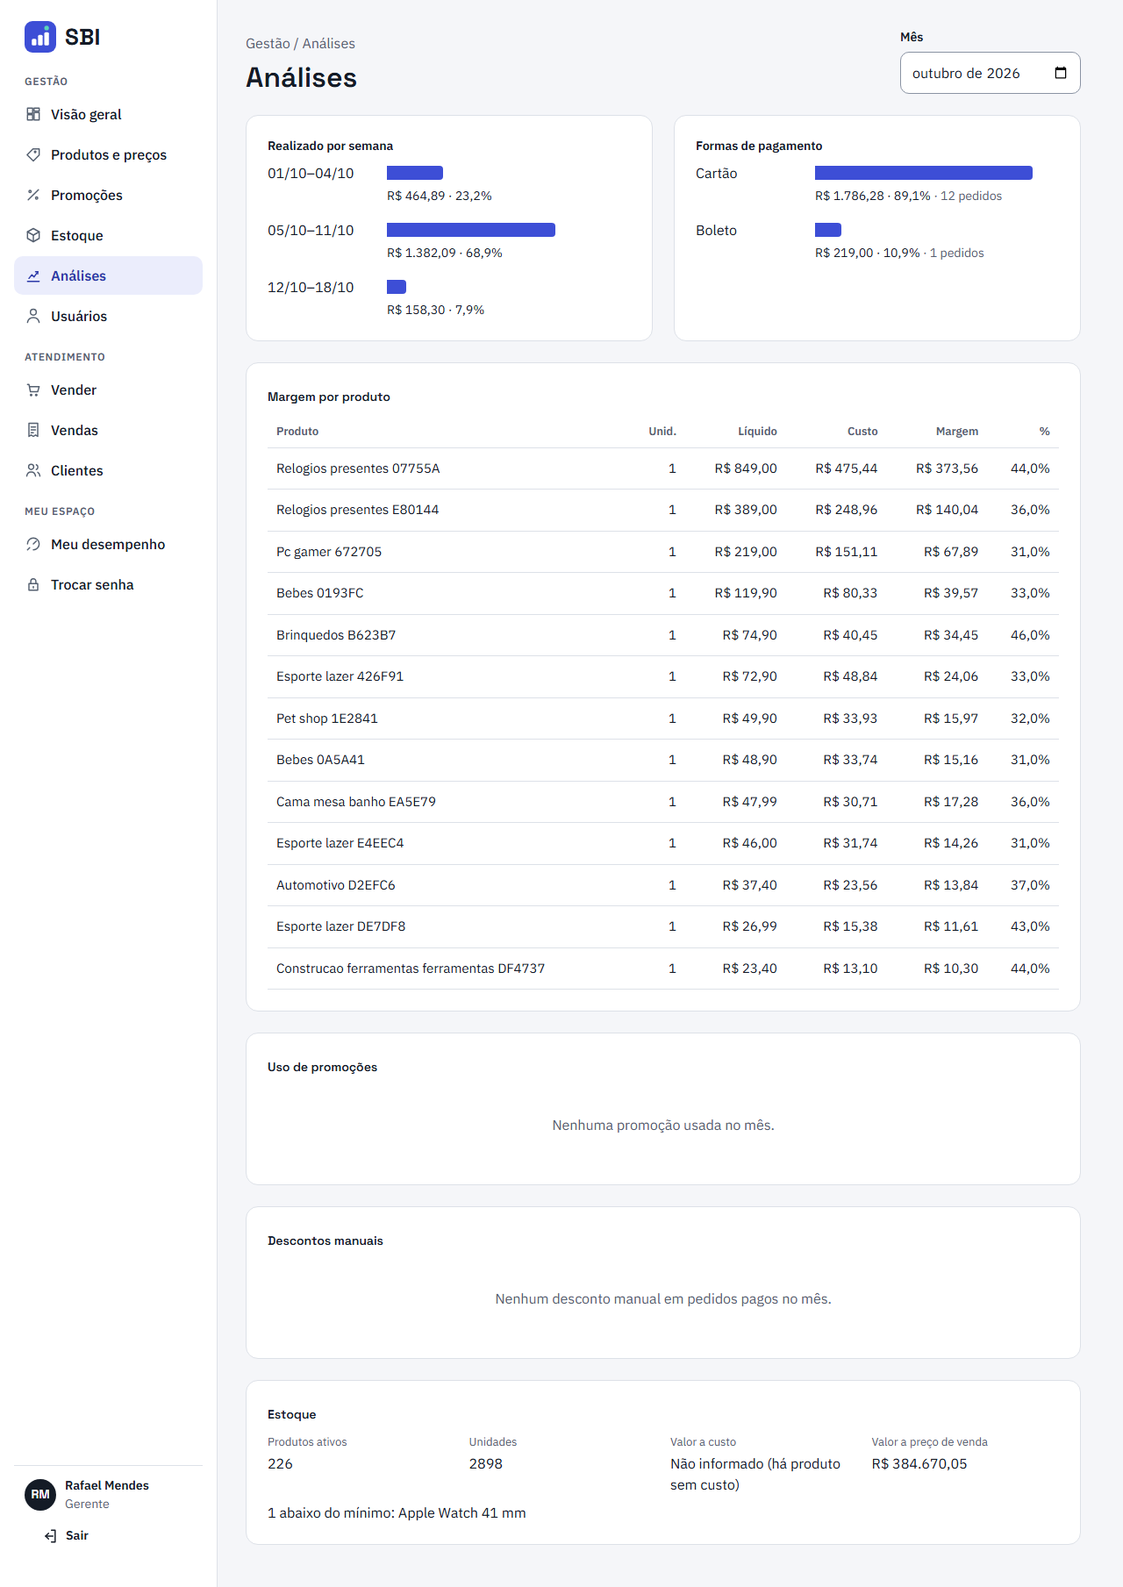
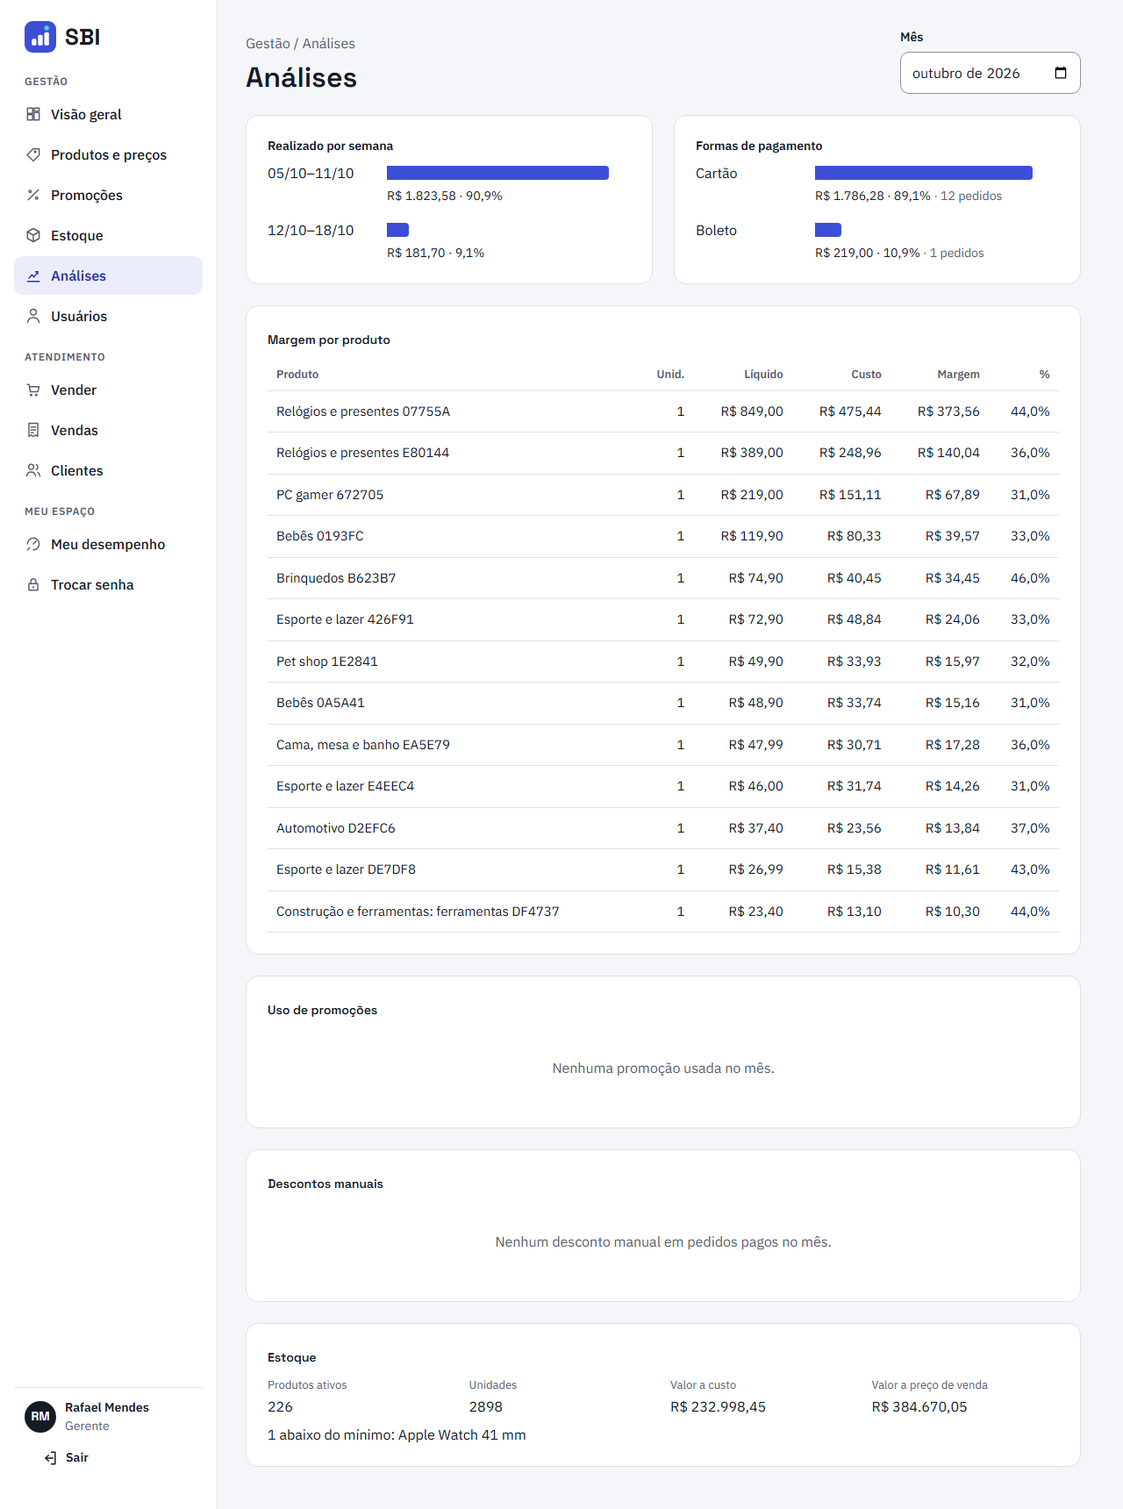
fix(demo): cost the seeded phones, translate Olist categories and cap the top products table

diff --git a/frontend/app/(app)/gestao/dashboard.tsx b/frontend/app/(app)/gestao/dashboard.tsx
@@ -14,6 +14,8 @@ import { GoalBar, RevenueChart, ShareBars } from '../../../components/charts.tsx
 import { Icon } from '../../../components/brand/icons.tsx';
 
 const PERIODS = [['TODAY', 'Hoje'], ['D7', '7 dias'], ['D30', '30 dias'], ['D90', '90 dias']] as const;
+/** Linhas da tabela "Produtos mais vendidos"; a lista completa fica em Análises. */
+const TOP_PRODUCTS = 10;
 type Period = (typeof PERIODS)[number][0];
 const GOAL_STATE: Readonly<Record<string, string>> = { SEM_META: 'Sem meta', EM_ANDAMENTO: 'Em andamento', META_ATINGIDA: 'Meta atingida' };
 
@@ -58,10 +60,11 @@ export default function Dashboard() {
   });
 
   const report = revenue.data;
-  const products = useMemo(() => {
+  const matching = useMemo(() => {
     const term = productFilter.trim().toLowerCase();
     return (report?.topProducts ?? []).filter(p => !term || p.name.toLowerCase().includes(term) || p.sku.toLowerCase().includes(term));
   }, [report, productFilter]);
+  const products = matching.slice(0, TOP_PRODUCTS);
   const updated = revenue.dataUpdatedAt ? formatTime(new Date(revenue.dataUpdatedAt).toISOString()) : null;
   const missingCost = report !== undefined && report.grossProfit === null;
 
@@ -127,7 +130,8 @@ export default function Dashboard() {
                 <input id="filtro-produto" className="input" type="search" placeholder="Buscar produto" value={productFilter}
                        onChange={event => setProductFilter(event.target.value)} /></div>
             </div>
-            {products.length === 0 ? <p className="empty">Nenhum produto vendido no período.</p> : <div className="table-wrap"><table>
+            {products.length === 0 ? <p className="empty">Nenhum produto vendido no período.</p>
+              : <div className="table-wrap" tabIndex={0} role="group" aria-labelledby="produtos-titulo"><table>
               <caption className="sr-only">Produtos mais vendidos</caption>
               <thead><tr><th scope="col">Produto</th><th scope="col" className="right">Unid.</th><th scope="col" className="right">Líquido</th>
                 <th scope="col" className="right">Lucro</th></tr></thead>
@@ -136,6 +140,8 @@ export default function Dashboard() {
                   <td className="num right">{money(p.netRevenue)}</td><td className="num right">{money(p.grossProfit)}</td></tr>
               ))}</tbody>
             </table></div>}
+            {matching.length > TOP_PRODUCTS && <p className="muted">
+              Mostrando {TOP_PRODUCTS} de {matching.length}. <Link href="/gestao/analises">Ver todos</Link></p>}
           </section>
           <div className="stack">
             <section className="card stack-sm" aria-labelledby="meta-titulo">

diff --git a/frontend/app/globals.css b/frontend/app/globals.css
@@ -112,7 +112,8 @@ dl.facts dd { margin: 2px 0 0; overflow-wrap: anywhere; }
 .login-panel { background: var(--ink); color: #fff; padding: var(--space-6); display: flex; flex-direction: column; justify-content: space-between; gap: var(--space-4); }
 .login-panel .login-headline { color: #fff; font-size: clamp(26px, 3vw, 36px); line-height: 1.2; font-weight: 600; max-width: 18ch; margin: 0; }
 .login-panel p { color: #C9CEDA; max-width: 44ch; }
-.login-panel .login-footer { font-size: 13px; color: #C9CEDA; }
+.login-panel .login-footer { font-size: 13px; line-height: 18px; color: #C9CEDA; display: grid; gap: 2px; }
+.login-panel .login-footer span { white-space: nowrap; }
 .login-form { display: grid; place-items: center; padding: var(--space-3); }
 .login .card { width: 100%; max-width: 420px; padding: var(--space-4); display: grid; gap: var(--space-2); }
 .login .card h2 { font-size: 24px; line-height: 32px; }
@@ -196,7 +197,8 @@ dl.facts dd { margin: 2px 0 0; overflow-wrap: anywhere; }
   .login { grid-template-columns: minmax(0, 1fr); }
   .login-panel { padding: var(--space-3); gap: var(--space-2); }
   .login-panel .login-headline { font-size: 20px; }
-  .login-panel .login-lead, .login-panel .login-footer { display: none; }
+  .login-panel .login-lead { display: none; }
+  .login-panel .login-footer { font-size: 12px; }
 }
 @media (max-width: 900px) {
   .pdv { grid-template-columns: minmax(0, 1fr); }

diff --git a/frontend/e2e/brand.spec.ts b/frontend/e2e/brand.spec.ts
@@ -75,3 +75,18 @@ test('[CT-WEB-121] rota inexistente mostra a pagina de nao encontrada da marca',
   expect(response?.status()).toBe(404);
   await expect(page.getByRole('heading', { name: 'Página não encontrada.' })).toBeVisible();
 });
+
+test('[CT-WEB-127] rodape do login em duas linhas inteiras em 1280 px e 390 px', async ({ page }) => {
+  for (const width of [1280, 390]) {
+    await page.setViewportSize({ width, height: width === 390 ? 844 : 800 });
+    await page.goto('/entrar');
+    const lines = page.locator('.login-footer span');
+    await expect(lines).toHaveText(['Ambiente de demonstração · dados fictícios', 'Projeto A3 · UNIFG 2026']);
+    for (const line of await lines.all()) {
+      const { height, lineHeight } = await line.evaluate(el => ({
+        height: el.getBoundingClientRect().height, lineHeight: parseFloat(getComputedStyle(el).lineHeight) }));
+      expect(height, `largura ${width}`).toBeLessThan(lineHeight * 1.5);
+    }
+    expect(await overflowing(page), `largura ${width}`).toEqual([]);
+  }
+});

diff --git a/frontend/e2e/manager.spec.ts b/frontend/e2e/manager.spec.ts
@@ -56,3 +56,16 @@ test('[CT-UI-001] menu do gerente traz as areas de venda e de gestao', async ({ 
     await expect(nav.getByRole('link', { name, exact: true })).toBeVisible();
   }
 });
+
+test('[CT-WEB-126] Produtos mais vendidos mostra 10 linhas e leva a Analises pelo "Ver todos"', async ({ page }) => {
+  for (let i = 0; i < 11; i++) await paidSale(await seed(5));
+  await login(page);
+  await page.goto('/gestao');
+  await page.getByText('Hoje', { exact: true }).click();
+  const section = page.getByRole('region', { name: 'Produtos mais vendidos' });
+  await expect(section.getByRole('table')).toBeVisible();
+  await expect(section.locator('tbody tr')).toHaveCount(10);
+  await expect(section.getByText(/^Mostrando 10 de \d+\./)).toBeVisible();
+  await section.getByRole('link', { name: 'Ver todos' }).click();
+  await expect(page).toHaveURL(/\/gestao\/analises$/);
+});

diff --git a/frontend/app/entrar/page.tsx b/frontend/app/entrar/page.tsx
@@ -15,7 +15,7 @@ export default function LoginPage() {
           <p className="display login-headline">A loja inteira em um só lugar: venda, estoque e meta.</p>
           <p className="login-lead">Cada venda baixa o estoque e conta para a meta de quem vendeu, com o mesmo número para gerente e vendedor.</p>
         </div>
-        <p className="login-footer">Ambiente de demonstração · dados fictícios · Projeto A3 · UNIFG 2026</p>
+        <p className="login-footer"><span>Ambiente de demonstração · dados fictícios</span><span>Projeto A3 · UNIFG 2026</span></p>
       </section>
       <div className="login-form">
         <section className="card" aria-labelledby="login-title">

diff --git a/docs/decisoes/evolucao.md b/docs/decisoes/evolucao.md
@@ -56,3 +56,14 @@ Data: 14/10/2026. Registro das decisões tomadas na evolução de autenticação
 | D-EVO-37 | As capturas de `reports/marca/` vêm da stack `sbi-demo` (seed demo mais massa Olist, nomes fictícios), em 1280 × 800 e 390 × 844, com axe WCAG 2.2 AA em cada rota (`index.json`). |
 | D-EVO-38 | G-06, decisão da equipe em 14/10/2026 (opção A da seção 8 do plano): o projeto não usa Testcontainers e não vai migrar. Os testes de integração e de contrato rodam no PostgreSQL 18 descartável via Docker Compose (`docker-compose.test.yml`, porta 15432), e a CI usa o mesmo PostgreSQL 18 como serviço. As menções a Testcontainers foram trocadas no plano de testes, nos requisitos e em `decisoes/stack.md`; README, arquitetura, plano de qualidade e relatório final passam a usar a mesma frase. O manual (`docs/referencias/Manual-Projeto-A3.md`, versão vigente) recebeu a mesma troca por decisão do responsável, junto com a nova redação da orientação de revisão de código (linha 545); o PDF é a cópia histórica de 26/09 e continua citando Testcontainers, como avisa `docs/referencias/README.md`; o plano de 07/10 em `docs/gestao/` fica como registro do que se pensava na data. |
 | D-EVO-39 | Roteiro de demonstração (WP-EVO-7): reescrito para 12 minutos com a massa Olist, o desconto com alçada, a queda da sessão ao desativar um vendedor e o último gerente. Inclui a correção do PR #21 (SKU de exemplo `CG-20W` com o total esperado e o job `bd` lido na `main`), para que o conflito entre os dois PRs no mesmo arquivo se resolva ficando com esta versão. O último gerente é mostrado de duas formas, porque pela tela o gerente não tem ação sobre a própria conta: a linha "(você)" sem ação e o gatilho no IntelliJ com `SET CONSTRAINTS ALL IMMEDIATE` (o gatilho é adiado para o commit; sem a instrução, o `UPDATE` dentro de `BEGIN ... ROLLBACK` não dispara o erro). |
+
+## Publicação
+
+Data: 15/10/2026. Acabamento do ambiente publicado (Vercel, Render e Neon) e higiene do repositório.
+
+| ID | Decisão |
+| --- | --- |
+| D-PUB-04 | iPhone e AirPods do seed demo passam a ter custo (60% do preço: R$ 2.700,00 e R$ 720,00) pela migração demo `V11_2`, gravado na entrada da carga inicial, no custo médio do saldo e no custo histórico dos itens já vendidos. Uma entrada nova de estoque não resolveria: com saldo e custo médio desconhecido, o gatilho mantém o custo desconhecido (CA-22-02), e a entrada ainda mudaria os saldos do Guia Visual usados nos testes BD-06, BD-19 e BD-21. O BD-07 (margem nula quando falta custo) passa a usar um produto próprio, dentro de transação desfeita no fim; o BD-07b confere a margem dos dois produtos. O `04_seed_demo.sql` recebe o mesmo trecho para o `run_all.sh`. |
+| D-PUB-05 | A carga Olist traduz as 37 categorias para o português com acento por uma tabela de mapeamento (`stg_olist.categoria_pt`); categoria sem tradução faz a carga falhar. O nome do produto segue a categoria (`<categoria> <código>`). "Audio" fica com a categoria de mesmo nome do seed, para não existirem duas categorias de áudio; os nomes do seed (Audio, Acessorios) não mudam porque testes e a promoção os usam. A limpeza apaga também as categorias sem acento de cargas anteriores, quando ficam sem produto. |
+| D-PUB-06 | Login: o rodapé do painel vira duas linhas que não quebram ("Ambiente de demonstração · dados fictícios" e "Projeto A3 · UNIFG 2026") e passa a aparecer também na faixa compacta (até 1024 px), porque o site público é aberto no celular e o aviso de dados fictícios importa ali. No `/gestao`, "Produtos mais vendidos" mostra os 10 primeiros (depois do filtro) com "Mostrando 10 de N" e o link "Ver todos" para Análises. |
+| D-PUB-07 | Com os nomes de categoria em português, a tabela "Produtos mais vendidos" passa a rolar na horizontal em 390 px, e o axe acusou `scrollable-region-focusable`. A área de rolagem da tabela recebe `tabIndex={0}`, `role="group"` e o nome do título da seção, para quem usa só o teclado conseguir rolar. As 17 capturas de `reports/marca/` foram refeitas com 0 violação. |

diff --git a/docs/roteiro-demonstracao.md b/docs/roteiro-demonstracao.md
@@ -35,7 +35,7 @@ Contas: Matheus Siqueira (gerente, o único da loja) e Gabriel Sousa, Allan Barr
 | 7:45 | 9. Tentar rebaixar o último gerente | Em Usuários, mostrar que a linha "Matheus Siqueira (você)" não tem ação de papel nem de situação. No IntelliJ (Neon), executar `BEGIN; SET CONSTRAINTS ALL IMMEDIATE; UPDATE app_users SET role = 'VENDEDOR' WHERE db_role = 'gerente_rafael'; ROLLBACK;`: o banco responde `LAST_MANAGER: at least one active manager is required`. | Duas proteções: a API proíbe alterar a própria conta (409 `SELF_CHANGE_FORBIDDEN`) e o gatilho `keep_one_active_manager` garante um gerente ativo mesmo com dois gerentes se rebaixando ao mesmo tempo (409 `LAST_MANAGER`). O `db_role` é a chave fixa da conta de gerente do seed. |
 | 8:30 | 10. SQL e CRUD no banco | No IntelliJ (Neon), executar `08_crud_clientes_olist.sql` por blocos: cadastro de PF e de PJ com CNPJ alfanumérico, as recusas do banco, histórico da Larissa, `v_cliente_resumo`, ranking de clientes e exclusão recusada pela FK. Tudo termina em `ROLLBACK`. | É o mesmo banco que atende o site. A massa entrou por SQL puro (`\copy`, `INSERT ... SELECT`, uma transação) e o banco aceita CRUD de qualquer cliente SQL; CHECKs, FKs e gatilhos barram o que a API também barra. |
 | 10:00 | 11. Contrato | No terminal: `gh run list --branch main --limit 1`, abrir a execução e mostrar o job `contract`. Mostrar `reports/contrato/live-v5/live-contract.json` com `divergences: []`. | As 58 operações do contrato v5 são chamadas de verdade contra uma API isolada (a CI e o `scripts\test-contract.ps1` não tocam no banco publicado), e cada resposta, inclusive de erro, é validada com Ajv contra o contrato. |
-| 11:15 | 12. Job `bd` | Na mesma execução, job `bd`, e o artefato `bd-reports/resultado_bd.txt` (`gh run download <id> -n bd-reports`): 60 PASS e, na etapa Olist, 10 PASS. | Flyway V1–V11, seed demo, RBAC/RLS, CRUD, a corrida da última unidade (CC-01), o último gerente (BD-30), as alçadas (BD-32) e a massa Olist (CT-DEMO) passam por `psql`. Cada push na `main` publica sozinho a API e o frontend. |
+| 11:15 | 12. Job `bd` | Na mesma execução, job `bd`, e o artefato `bd-reports/resultado_bd.txt` (`gh run download <id> -n bd-reports`): 61 PASS e, na etapa Olist, 11 PASS. | Flyway V1–V11, seed demo, RBAC/RLS, CRUD, a corrida da última unidade (CC-01), o último gerente (BD-30), as alçadas (BD-32) e a massa Olist (CT-DEMO) passam por `psql`. Cada push na `main` publica sozinho a API e o frontend. |
 
 ## Depois da apresentação ou do ensaio
 

diff --git a/docs/plano-testes.md b/docs/plano-testes.md
@@ -276,12 +276,15 @@ Lacunas e decisoes em [decisoes/evolucao.md](decisoes/evolucao.md). Um pacote po
 | CT-DEMO-04 | WP-EVO-8 | BD | Valor limite | Verde | `09_testes_olist.sql`: saldo = entrada - vendido, nunca negativo, reservado 0 |
 | CT-DEMO-05 | WP-EVO-8 | API | Particionamento | Verde | `scripts/demo-olist-api.mjs`: VENDEDOR ve CPF e CNPJ da massa mascarados em lista, perfil, historico e resumo; GERENTE ve completo |
 | CT-DEMO-06 | WP-EVO-8 | BD | - | Verde | `run_olist_bd.sh`: roteiro `08_crud_clientes_olist.sql` com exatamente as tres recusas esperadas |
+| CT-DEMO-07 | WP-PUB-2 | BD | - | Verde | `09_testes_olist.sql`: 37 categorias com nome em portugues, produto `<categoria> <codigo>` e nenhuma categoria sem acento |
 | CT-WEB-120 | WP-EVO-9 | E2E | Particionamento | Verde | `e2e/brand.spec.ts`: logo com nome acessivel "SBI — Super Business Intelligence" e um unico item com `aria-current` em todas as rotas do gerente (10) e do vendedor (4) |
 | CT-WEB-121 | WP-EVO-9 | E2E/Acessibilidade | - | Verde | `e2e/brand.spec.ts`: `/icon.svg` e `/apple-icon.png` servidos, login "Entrar no SBI" com axe WCAG 2.2 AA e 320 px, menu recolhivel de 44 px em 320 px, 404 da marca |
 | CT-WEB-122 | WP-EVO-9 | Unitario | - | Verde | `tests/brand.test.ts`: nome acessivel unico e geometria do simbolo igual a `app/icon.svg` |
 | CT-WEB-123 | WP-EVO-9 | Unitario | - | Verde | `tests/brand.test.ts`: seis icones do manual e sete derivados; icone decorativo (`aria-hidden`) por padrao e nomeado com rotulo |
 | CT-WEB-124 | WP-EVO-9 | Unitario | Particionamento | Verde | `tests/brand.test.ts`: hora 14h30, periodo "01/09 a 30/09/2026", "Nao informado", "R$ 47 mil", iniciais do avatar, selos de estado e secoes do menu |
 | CT-WEB-125 | WP-EVO-9 | Unitario | - | Verde | `tests/brand.test.ts`: nenhuma forma proibida do nome (sigla com pontos, so a inicial maiuscula, nome abreviado com ou sem espaco, artigo feminino; lista em `FORBIDDEN`) em `frontend/app`, `components`, `lib` e `docs/` |
+| CT-WEB-126 | WP-PUB-2 | E2E | Valor limite | Verde | `e2e/manager.spec.ts`: com 11 produtos vendidos no dia, "Produtos mais vendidos" mostra 10 linhas, "Mostrando 10 de N" e o link "Ver todos" leva a `/gestao/analises` |
+| CT-WEB-127 | WP-PUB-2 | E2E | - | Verde | `e2e/brand.spec.ts`: rodape do login em duas linhas inteiras ("Ambiente de demonstracao · dados ficticios" e "Projeto A3 · UNIFG 2026") em 1280 px e 390 px, sem rolagem horizontal |
 
 ## Selecao inicial da suite
 

diff --git a/docs/bd/massa-demonstracao.md b/docs/bd/massa-demonstracao.md
@@ -20,7 +20,7 @@ Objetivo: dar à demonstração um histórico de compras realista e volumoso par
 ## Adaptações
 
 - **Pessoas:** a Olist não publica nome nem documento. Os nomes são sintéticos; CPF e CNPJ são gerados a partir de hash, com dígito verificador válido; os e-mails usam o domínio reservado `example.com`. Endereço: cidade, UF e prefixo de CEP do original, com rua e número de demonstração. Nenhum dado pessoal real.
-- **Produtos:** nome `<categoria> <código>`, SKU `OL-<6 hex>`, custo médio sintético de 55% a 70% do preço, só para margem e lucro aparecerem. Estoque inicial = quantidade vendida + saldo restante de 5 a 20 (determinístico pelo SKU), com entrada datada antes do primeiro pedido.
+- **Produtos:** nome `<categoria em português> <código>` (a carga traduz as 37 categorias com acento; categoria sem tradução faz a carga falhar), SKU `OL-<6 hex>`, custo médio sintético de 55% a 70% do preço, só para margem e lucro aparecerem. Estoque inicial = quantidade vendida + saldo restante de 5 a 20 (determinístico pelo SKU), com entrada datada antes do primeiro pedido.
 - **Datas:** comprimidas para os últimos 365 dias; `dias_atras` é relativo à data da carga, então o histórico não envelhece. Nenhum pedido fica no futuro: o horário de hoje é limitado ao instante da carga.
 - **Pagamento:** o de maior valor de cada pedido; cartão de crédito ou débito vira CARD (só os 4 últimos dígitos, sintéticos), boleto vira BOLETO (vencimento em 3 dias) e voucher vira PIX. Só pedidos entregues, todos pagos.
 - **Vendedor:** `VENDEDOR_1..3` viram Ana, Bruno e Carla, as contas de demonstração.
@@ -72,5 +72,6 @@ O banco está em `tmpfs`: cada `up` começa limpo e reproduzível. Para recarreg
 | CT-DEMO-04 | `09_testes_olist.sql` | saldo = entrada − vendido, nunca negativo, reservado 0 |
 | CT-DEMO-05 | `scripts/demo-olist-api.mjs` | pela API, o VENDEDOR vê CPF e CNPJ da massa mascarados em lista, perfil, histórico e resumo; o GERENTE vê completo e o resumo com 14 pedidos |
 | CT-DEMO-06 | `run_olist_bd.sh` | o roteiro 08 roda com exatamente as três recusas esperadas |
+| CT-DEMO-07 | `09_testes_olist.sql` | 37 categorias com nome em português e nenhum produto da massa em categoria sem acento |
 
 Na CI, o job `bd` roda essa etapa (`docs/bd/pacote-sql/run_olist_bd.sh`) depois dos testes 06*, então nenhum número do BD-01 ao BD-32 muda. Os perfis padrão, `integration` e `contract` não recebem a massa.

diff --git a/README.md b/README.md
@@ -78,7 +78,7 @@ As senhas ficam em `.env.local` (fora do git), gerado na primeira execução: `S
 | Perfil | Uso |
 | --- | --- |
 | padrão | Desenvolvimento com o banco `postgres-order` (`docker compose up -d postgres`) e a senha em `SPRING_DATASOURCE_PASSWORD`. |
-| `demo` | Aplica também `db/demo` (V6_1, contas com BCrypt de `SBI_DEMO_PASSWORD`; V6_2, massa sintética; V11_1, promoção de Acessórios até dezembro). Precisa estar ativo desde a primeira migração do banco. |
+| `demo` | Aplica também `db/demo` (V6_1, contas com BCrypt de `SBI_DEMO_PASSWORD`; V6_2, massa sintética; V11_1, promoção de Acessórios até dezembro; V11_2, custo da carga inicial de iPhone e AirPods). Precisa estar ativo desde a primeira migração do banco. |
 | `integration` (testes) | PostgreSQL descartável da porta 15432 (`docker-compose.test.yml`), com as tabelas de negócio esvaziadas por `TRUNCATE`. |
 | `contract` | API isolada dos testes HTTP de contrato, com contas sintéticas e senha gerada por execução. |
 
@@ -99,7 +99,7 @@ node scripts\quality-metrics.mjs reports\metricas\r1 "R1"                       
 
 A CI (`.github/workflows/ci.yml`) roda quatro jobs, cada um com seus relatórios como artefato:
 - `test (backend)`;
-- `bd`: Flyway, seed demo e pacote SQL com 60 PASS, mais 10 PASS da massa Olist;
+- `bd`: Flyway, seed demo e pacote SQL com 61 PASS, mais 11 PASS da massa Olist;
 - `contract`: auditoria estática e verificação ao vivo das 58 operações do contrato v5;
 - `frontend`: typecheck, schemas sem diff, testes unitários, build, E2E e axe.
 

diff --git a/docs/bd/migracoes.md b/docs/bd/migracoes.md
@@ -15,6 +15,7 @@ Desde a ETAPA 2A (14/10/2026), o Flyway é a única fonte do esquema em todos os
 | V5 | Pré-checagem dos dados legados; catálogo, estoque, metas, promoções, papéis, bloqueio de login, auditoria, idempotência e funções `fn_*` ([modelo](modelo-erp-pdv.md)). |
 | V6 | 16 views dos painéis, inclusive `v_faturamento_diario`. |
 | V6_1, V6_2 (`db/demo`) | Só no perfil `demo`: contas com BCrypt de `SBI_DEMO_PASSWORD` e massa sintética. |
+| V11_2 (`db/demo`) | Só no perfil `demo`: iPhone e AirPods da V6_2 passam a ter custo na carga inicial (60% do preço), gravado na entrada de 25/08, no custo médio e no custo histórico dos itens vendidos; saldos e reservas não mudam (D-PUB-04). |
 | V11_1 (`db/demo`) | Só no perfil `demo`: a promoção de Acessórios da V6_2 passa a valer até 31/12/2026 (cobre a apresentação de 29/11). Altera só a linha original do seed. |
 
 **Perfil `demo` (A2A-4).** Ele precisa estar ativo desde a primeira migração do banco. Com `out-of-order` desligado, ativá-lo num banco já migrado além da V6 faz o Flyway recusar as versões 6.1 e 6.2; nesse caso o banco é recriado, não completado. Sem `SBI_DEMO_PASSWORD` (12 a 72 bytes), a V6_1 falha e o banco não sobe.

diff --git a/docs/bd/modelo-erp-pdv.md b/docs/bd/modelo-erp-pdv.md
@@ -453,7 +453,7 @@ Ambiente: contêiner `postgres:18` descartável, removido ao final. Sequência: 
 | Base com dois CPFs que colidem após normalização | A pré-checagem abortou: `V5: documentos colidem apos normalizacao para digitos: 52998224725`. |
 | Testes 06a/06b/06c do pacote com o bloco D aplicado | 50 PASS, 0 FAIL, 0 ERROR. |
 | CC-01 (duas vendas simultâneas da última unidade) | Reservado/saldo = 1/1; a segunda venda recebeu `estoque insuficiente`. Com os 50, fecha os 51 PASS de 12/10. |
-| `v_faturamento_diario` sobre o seed de setembro | Faturamento bruto 186.400,00, 65 pedidos pagos, 92 unidades; 16 dos 27 dias com `lucro_bruto` nulo (iPhone e AirPods sem custo no seed, como no Guia Visual). |
+| `v_faturamento_diario` sobre o seed de setembro | Faturamento bruto 186.400,00, 65 pedidos pagos, 92 unidades; 16 dos 27 dias com `lucro_bruto` nulo só com a V6_2 (iPhone e AirPods sem custo, como no Guia Visual); com a V11_2 do perfil `demo`, que informa o custo da carga inicial desses dois produtos, nenhum dia fica nulo e o BD-07 usa um produto próprio sem custo. |
 
 O ensaio não exercitou as adaptações P1, P7 e P9 nem o seed com CPFs válidos; elas são entregues e testadas na ETAPA 2A.
 
